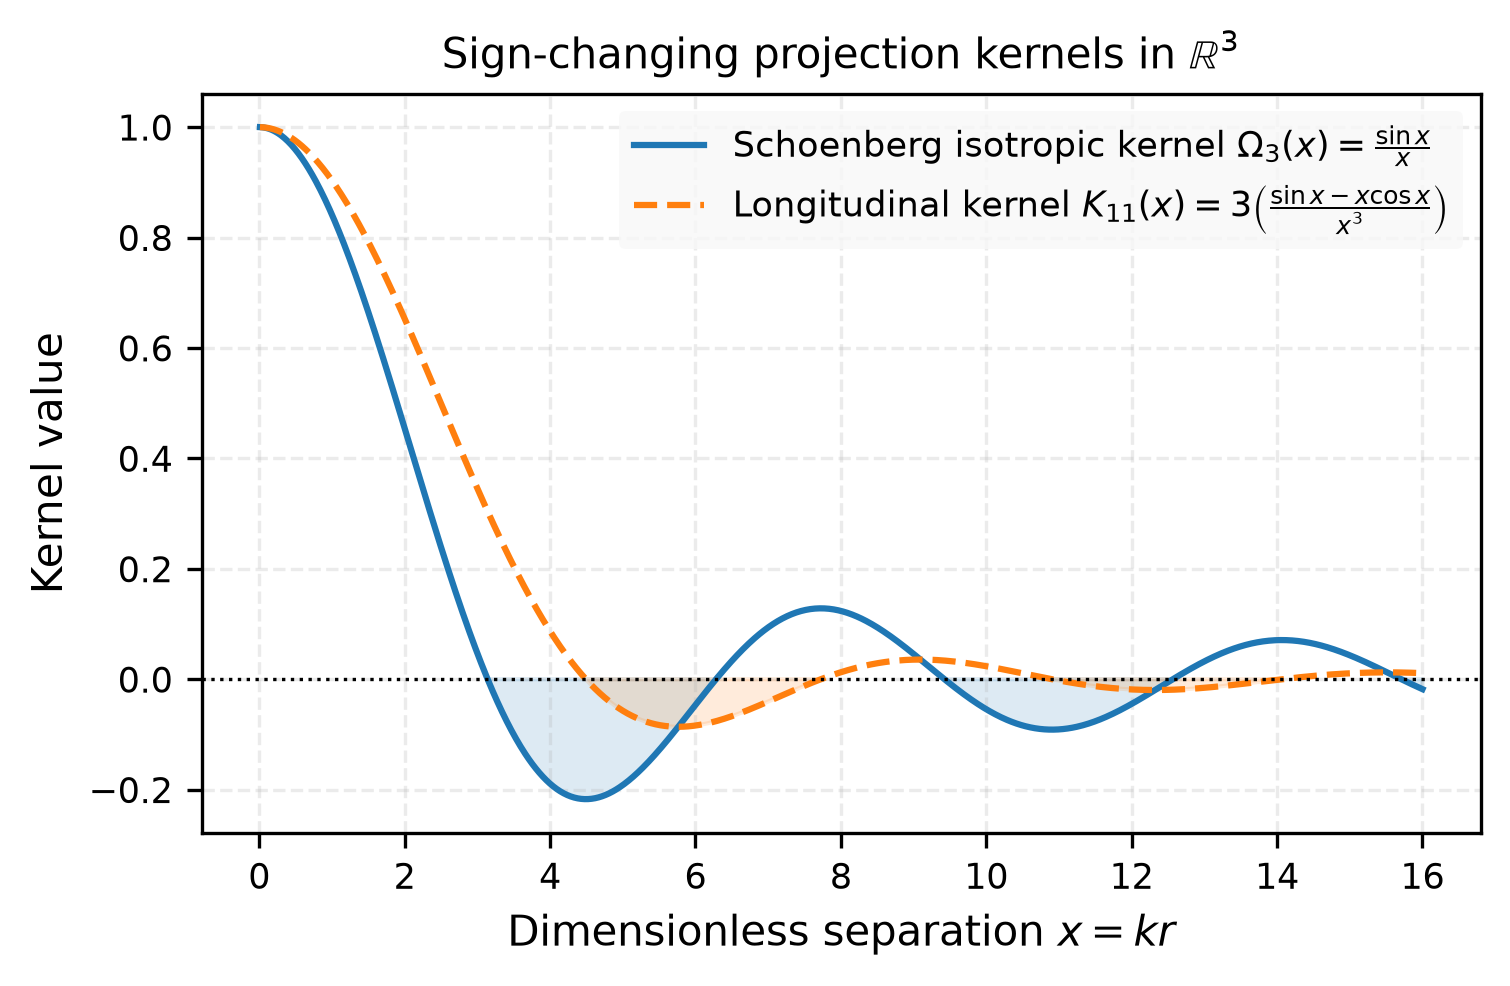
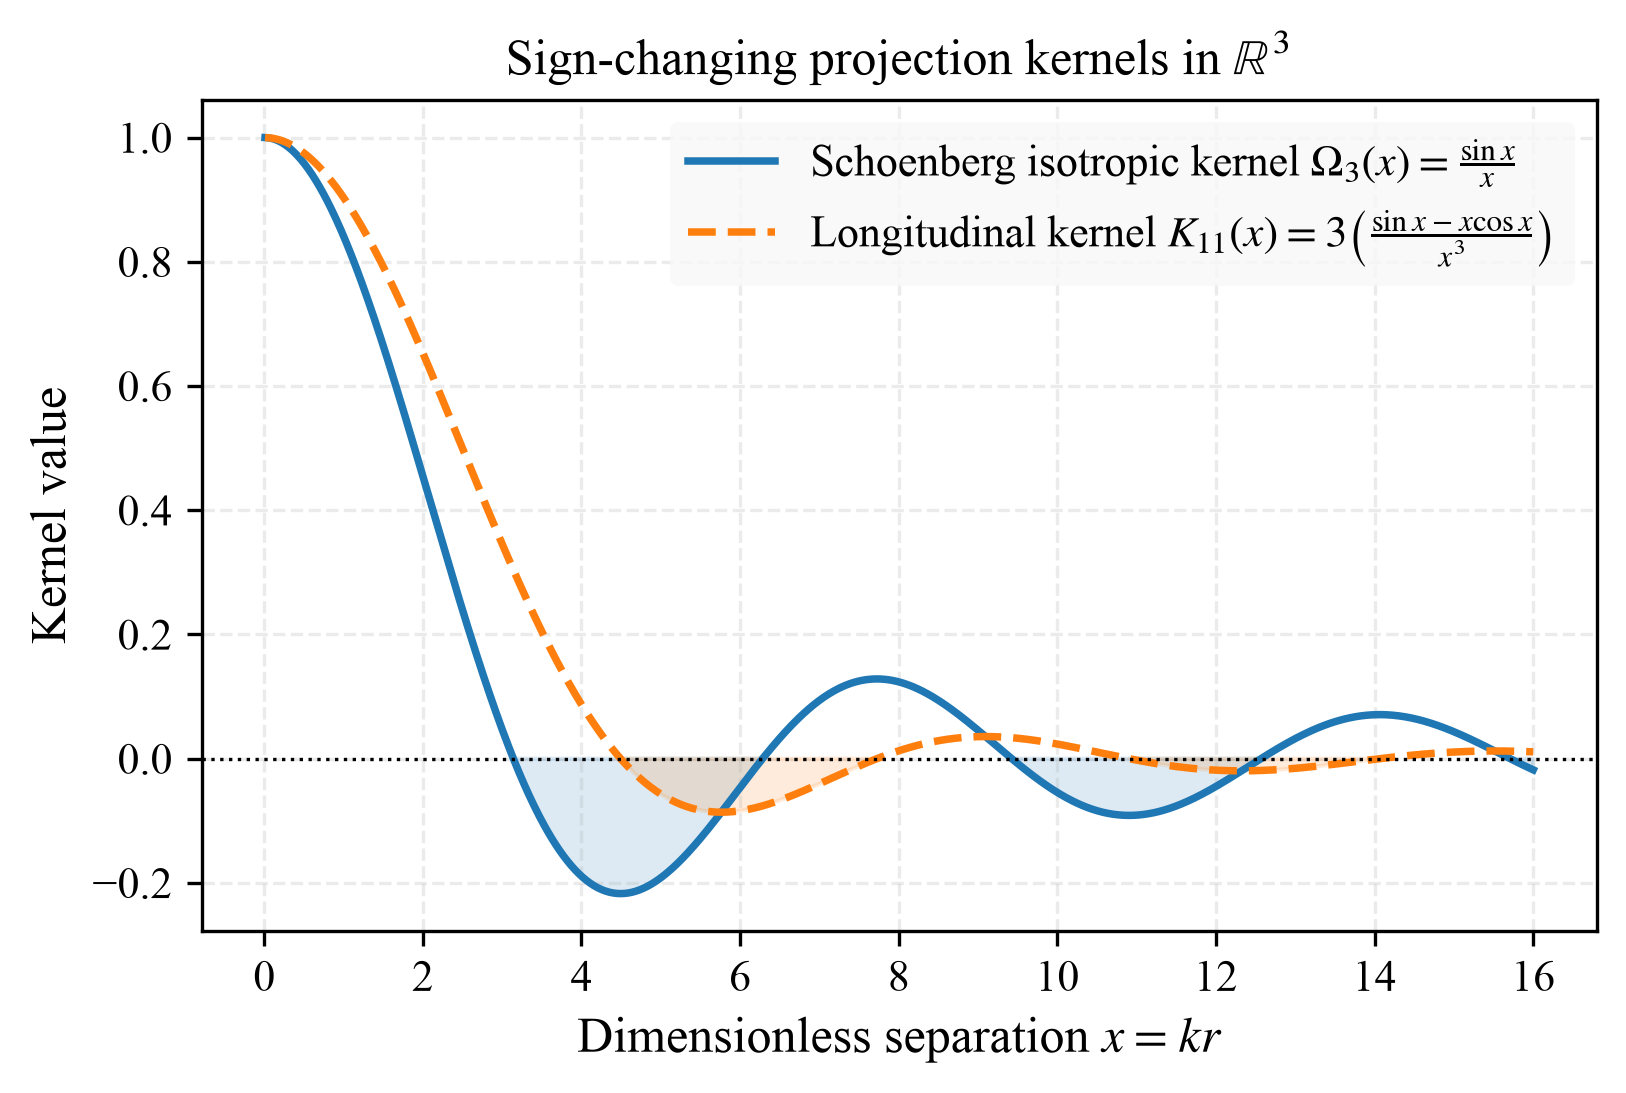
Moved to Times New Roman-based figures

Changed region(s): [[0.0, 0.0304, 0.996, 0.9736], [0.4046, 0.1826, 0.4669, 0.213]]

diff --git a/scripts/generate_figures.py b/scripts/generate_figures.py
@@ -4,20 +4,24 @@ os.makedirs('/tmp/matplotlib_cache', exist_ok=True)
 
 import numpy as np
 from scipy import integrate
+from scipy.special import hyp1f1
 from scipy.interpolate import interp1d
 import matplotlib
 matplotlib.use('Agg')
 import matplotlib.pyplot as plt
 
 plt.rcParams.update({
-    'font.size': 10,
-    'axes.labelsize': 10,
-    'axes.titlesize': 10,
-    'xtick.labelsize': 8.5,
-    'ytick.labelsize': 8.5,
-    'legend.fontsize': 8.5,
-    'figure.titlesize': 11,
-    'lines.linewidth': 1.5,
+    'font.family': 'serif',
+    'font.serif': ['Times New Roman', 'DejaVu Serif', 'Times', 'serif'],
+    'mathtext.fontset': 'stix',
+    'font.size': 12,
+    'axes.labelsize': 12,
+    'axes.titlesize': 12,
+    'xtick.labelsize': 10.5,
+    'ytick.labelsize': 10.5,
+    'legend.fontsize': 10.5,
+    'figure.titlesize': 13,
+    'lines.linewidth': 1.8,
     'figure.dpi': 300
 })
 
@@ -28,6 +32,28 @@ FIGURES_DIR = os.path.join(PROJECT_ROOT, 'figures')
 os.makedirs(FIGURES_DIR, exist_ok=True)
 
 # -------------------------------------------------------------
+# 0. Figure 0: Self-similar Sedov closed-form solution
+# -------------------------------------------------------------
+print("Generating Figure 0: Sedov self-similar solution...")
+xi = np.linspace(0, 15, 500)
+# Sedov's analytical solution for self-similar decay: f(xi) = 1F1(a, b, -xi^2/8) with a=0.8, b=2.5
+a_sedov, b_sedov = 0.8, 2.5
+f_sedov = hyp1f1(a_sedov, b_sedov, -xi**2 / 8.0)
+
+fig, ax = plt.subplots(figsize=(6.0, 3.6))
+ax.plot(xi, f_sedov, 'C0-', lw=2.0, label=r'Sedov solution $f(\xi) = {}_1F_1\left(0.8;\, 2.5;\, -\frac{\xi^2}{8}\right)$')
+ax.axhline(0, color='black', lw=0.8, ls=':')
+ax.set_xlabel(r'Similarity variable $\xi = r / \ell(t)$')
+ax.set_ylabel(r'Longitudinal correlation $f(\xi)$')
+ax.set_title(r'Sedov exact self-similar solution: $f(\xi) \geq 0$ for all $\xi$')
+ax.set_ylim(-0.05, 1.05)
+ax.grid(True, alpha=0.25, linestyle='--')
+ax.legend(frameon=True, edgecolor='none', facecolor='#f8f8f8', loc='upper right')
+plt.savefig(os.path.join(FIGURES_DIR, 'fig0_sedov_solution.pdf'), bbox_inches='tight')
+plt.savefig(os.path.join(FIGURES_DIR, 'fig0_sedov_solution.png'), dpi=300, bbox_inches='tight')
+plt.close()
+
+# -------------------------------------------------------------
 # 1. Figure 1: Schoenberg Kernel & Positive Definiteness
 # -------------------------------------------------------------
 print("Generating Figure 1: Schoenberg Kernel...")
@@ -35,7 +61,7 @@ x = np.linspace(0.01, 16, 1000)
 omega3 = np.sin(x) / x
 kernel_11 = 3.0 * (np.sin(x) - x * np.cos(x)) / (x**3)
 
-fig, ax = plt.subplots(figsize=(5.5, 3.2))
+fig, ax = plt.subplots(figsize=(6.0, 3.6))
 ax.plot(x, omega3, 'C0-', label=r'Schoenberg isotropic kernel $\Omega_3(x) = \frac{\sin x}{x}$')
 ax.plot(x, kernel_11, 'C1--', label=r'Longitudinal kernel $K_{11}(x) = 3\left(\frac{\sin x - x\cos x}{x^3}\right)$')
 ax.axhline(0, color='black', lw=0.8, ls=':')
@@ -83,7 +109,7 @@ k1_vals = np.linspace(0.005, 4.0, 100)
 E11_vals = np.array([E11_vkp_single(k) for k in k1_vals])
 d2E11_vals = np.array([d2E11_vkp_single(k) for k in k1_vals])
 
-fig, (ax1, ax2) = plt.subplots(1, 2, figsize=(6.8, 2.9))
+fig, (ax1, ax2) = plt.subplots(1, 2, figsize=(7.6, 3.4))
 
 ax1.loglog(k_vals, E_vals, 'C0-', label=r'$E(k)$ (von Kármán–Pao)')
 ax1.plot(k1_vals, E11_vals, 'C2--', label=r'$E_{11}(k_1)$ (1D longitudinal)')
@@ -93,7 +119,7 @@ ax1.set_title(r'(a) 3D and 1D Energy Spectra')
 ax1.grid(True, which='both', alpha=0.25, linestyle='--')
 ax1.legend(frameon=True, edgecolor='none', facecolor='#f8f8f8')
 
-ax2.plot(k1_vals, d2E11_vals, 'C3-', lw=1.6)
+ax2.plot(k1_vals, d2E11_vals, 'C3-', lw=1.8)
 ax2.axhline(0, color='black', lw=0.8, ls=':')
 ax2.fill_between(k1_vals, d2E11_vals, 0, where=(d2E11_vals < 0), color='C3', alpha=0.2, label=r'Concave ($d^2E_{11}/dk_1^2 < 0$)')
 ax2.fill_between(k1_vals, d2E11_vals, 0, where=(d2E11_vals >= 0), color='C2', alpha=0.15, label=r'Convex ($d^2E_{11}/dk_1^2 \geq 0$)')
@@ -103,6 +129,7 @@ ax2.set_title(r'(b) Convexity of $E_{11}(k_1)$')
 ax2.grid(True, alpha=0.25, linestyle='--')
 ax2.legend(frameon=True, edgecolor='none', facecolor='#f8f8f8')
 
+plt.tight_layout()
 plt.savefig(os.path.join(FIGURES_DIR, 'fig2_vkp_convexity.pdf'), bbox_inches='tight')
 plt.savefig(os.path.join(FIGURES_DIR, 'fig2_vkp_convexity.png'), dpi=300, bbox_inches='tight')
 plt.close()
@@ -139,10 +166,10 @@ f_fft = np.fft.irfft(E11_fft, n=len(k_fft)*2)
 f_fft = f_fft[:len(k_fft)]
 f_fft /= f_fft[0]
 
-fig, (ax1, ax2) = plt.subplots(1, 2, figsize=(6.8, 2.9))
+fig, (ax1, ax2) = plt.subplots(1, 2, figsize=(7.6, 3.4))
 
-ax1.plot(r_fine, f_fine, 'C0-', label=r'Exact Quad: $f(r) \geq 0$')
-ax1.plot(r_fft_grid[r_fft_grid <= 8.0], f_fft[r_fft_grid <= 8.0], 'C3--', lw=1.2, label='Coarse FFT (aliasing artifact)')
+ax1.plot(r_fine, f_fine, 'C0-', lw=1.8, label=r'Exact Quad: $f(r) \geq 0$')
+ax1.plot(r_fft_grid[r_fft_grid <= 8.0], f_fft[r_fft_grid <= 8.0], 'C3--', lw=1.4, label='Coarse FFT (aliasing artifact)')
 ax1.axhline(0, color='black', lw=0.8, ls=':')
 ax1.set_xlabel(r'Separation $r/L$')
 ax1.set_ylabel(r'$f(r)$')
@@ -150,14 +177,15 @@ ax1.set_title(r'(a) Near range $r/L \in [0, 8]$')
 ax1.grid(True, alpha=0.25, linestyle='--')
 ax1.legend(frameon=True, edgecolor='none', facecolor='#f8f8f8')
 
-ax2.semilogy(r_fine, f_fine, 'C0-')
-ax2.semilogy(r_tail, f_tail, 'C0-', label=r'Smooth positive decay')
+ax2.semilogy(r_fine, f_fine, 'C0-', lw=1.8)
+ax2.semilogy(r_tail, f_tail, 'C0-', lw=1.8, label=r'Smooth positive decay')
 ax2.set_xlabel(r'Separation $r/L$')
 ax2.set_ylabel(r'$f(r)$ (log scale)')
 ax2.set_title(r'(b) Asymptotic Tail $r/L \in [0, 30]$')
 ax2.grid(True, which='both', alpha=0.25, linestyle='--')
 ax2.legend(frameon=True, edgecolor='none', facecolor='#f8f8f8')
 
+plt.tight_layout()
 plt.savefig(os.path.join(FIGURES_DIR, 'fig3_vkp_correlation.pdf'), bbox_inches='tight')
 plt.savefig(os.path.join(FIGURES_DIR, 'fig3_vkp_correlation.png'), dpi=300, bbox_inches='tight')
 plt.close()
@@ -190,21 +218,21 @@ for i, r in enumerate(r_grid_nb):
     val, _ = integrate.quad(integrand, 0.0, 25.0, limit=300)
     f_nb[i] = val / norm_nb
 
-fig, (ax1, ax2, ax3) = plt.subplots(1, 3, figsize=(7.2, 2.6))
+fig, (ax1, ax2, ax3) = plt.subplots(1, 3, figsize=(8.0, 3.2))
 
-ax1.plot(k_grid_nb, E_nb, 'C0-')
+ax1.plot(k_grid_nb, E_nb, 'C0-', lw=1.8)
 ax1.set_xlabel(r'$k$')
 ax1.set_ylabel(r'$E(k)$')
-ax1.set_title(r'(a) Batchelor Narrowband $E(k)$')
+ax1.set_title(r'(a) 3D Spectrum $E(k)$')
 ax1.grid(True, alpha=0.25, linestyle='--')
 
-ax2.plot(k1_grid_nb, E11_nb, 'C2-')
+ax2.plot(k1_grid_nb, E11_nb, 'C2-', lw=1.8)
 ax2.set_xlabel(r'$k_1$')
 ax2.set_ylabel(r'$E_{11}(k_1)$')
 ax2.set_title(r'(b) 1D Spectrum $E_{11}(k_1)$')
 ax2.grid(True, alpha=0.25, linestyle='--')
 
-ax3.plot(r_grid_nb, f_nb, 'C3-', lw=1.6)
+ax3.plot(r_grid_nb, f_nb, 'C3-', lw=1.8)
 ax3.axhline(0, color='black', lw=0.8, ls=':')
 ax3.fill_between(r_grid_nb, f_nb, 0, where=(f_nb < 0), color='C3', alpha=0.25, label=f'Min $f(r) = {f_nb.min():.3f}$')
 ax3.set_xlabel(r'Separation $r$')
@@ -213,6 +241,7 @@ ax3.set_title(r'(c) Negative Loop in $f(r)$')
 ax3.grid(True, alpha=0.25, linestyle='--')
 ax3.legend(frameon=True, edgecolor='none', facecolor='#f8f8f8', loc='upper right')
 
+plt.tight_layout()
 plt.savefig(os.path.join(FIGURES_DIR, 'fig4_narrowband_counterexample.pdf'), bbox_inches='tight')
 plt.savefig(os.path.join(FIGURES_DIR, 'fig4_narrowband_counterexample.png'), dpi=300, bbox_inches='tight')
 plt.close()
@@ -227,7 +256,7 @@ r_scan = np.linspace(0.001, 2.5, 200)
 min_f_vals = []
 sigma_dense = np.linspace(0.25, 4.0, 16)
 
-fig, (ax1, ax2) = plt.subplots(1, 2, figsize=(6.8, 2.9))
+fig, (ax1, ax2) = plt.subplots(1, 2, figsize=(7.6, 3.4))
 
 for s in sigmas:
     E11_arr = np.zeros_like(k1_grid_nb)
@@ -244,14 +273,14 @@ for s in sigmas:
         val, _ = integrate.quad(integrand, 0.0, 25.0, limit=200)
         f_arr[i] = val / norm_s
         
-    ax1.plot(r_scan, f_arr, label=rf'$\sigma = {s}$')
+    ax1.plot(r_scan, f_arr, lw=1.8, label=rf'$\sigma = {s}$')
 
 ax1.axhline(0, color='black', lw=0.8, ls=':')
 ax1.set_xlabel(r'Separation $r$')
 ax1.set_ylabel(r'$f(r)$')
 ax1.set_title(r'(a) Longitudinal correlation $f(r)$ vs $\sigma$')
 ax1.grid(True, alpha=0.25, linestyle='--')
-ax1.legend(frameon=True, edgecolor='none', facecolor='#f8f8f8', fontsize=8)
+ax1.legend(frameon=True, edgecolor='none', facecolor='#f8f8f8', fontsize=9.5)
 
 for s in sigma_dense:
     E11_arr = np.zeros_like(k1_grid_nb)
@@ -268,13 +297,14 @@ for s in sigma_dense:
         f_arr[i] = val / norm_s
     min_f_vals.append(np.min(f_arr))
 
-ax2.plot(sigma_dense / 10.0, min_f_vals, 'C0o-', markersize=4)
+ax2.plot(sigma_dense / 10.0, min_f_vals, 'C0o-', lw=1.8, markersize=5)
 ax2.axhline(0, color='black', lw=0.8, ls=':')
 ax2.set_xlabel(r'Relative bandwidth $\sigma / k_0$')
 ax2.set_ylabel(r'$\min_r f(r)$')
-ax2.set_title(r'(b) Depth of Negative Loop vs Spectral Breadth')
+ax2.set_title(r'(b) Minimum of $f(r)$ vs Bandwidth')
 ax2.grid(True, alpha=0.25, linestyle='--')
 
+plt.tight_layout()
 plt.savefig(os.path.join(FIGURES_DIR, 'fig5_parametric_bandwidth.pdf'), bbox_inches='tight')
 plt.savefig(os.path.join(FIGURES_DIR, 'fig5_parametric_bandwidth.png'), dpi=300, bbox_inches='tight')
 plt.close()
